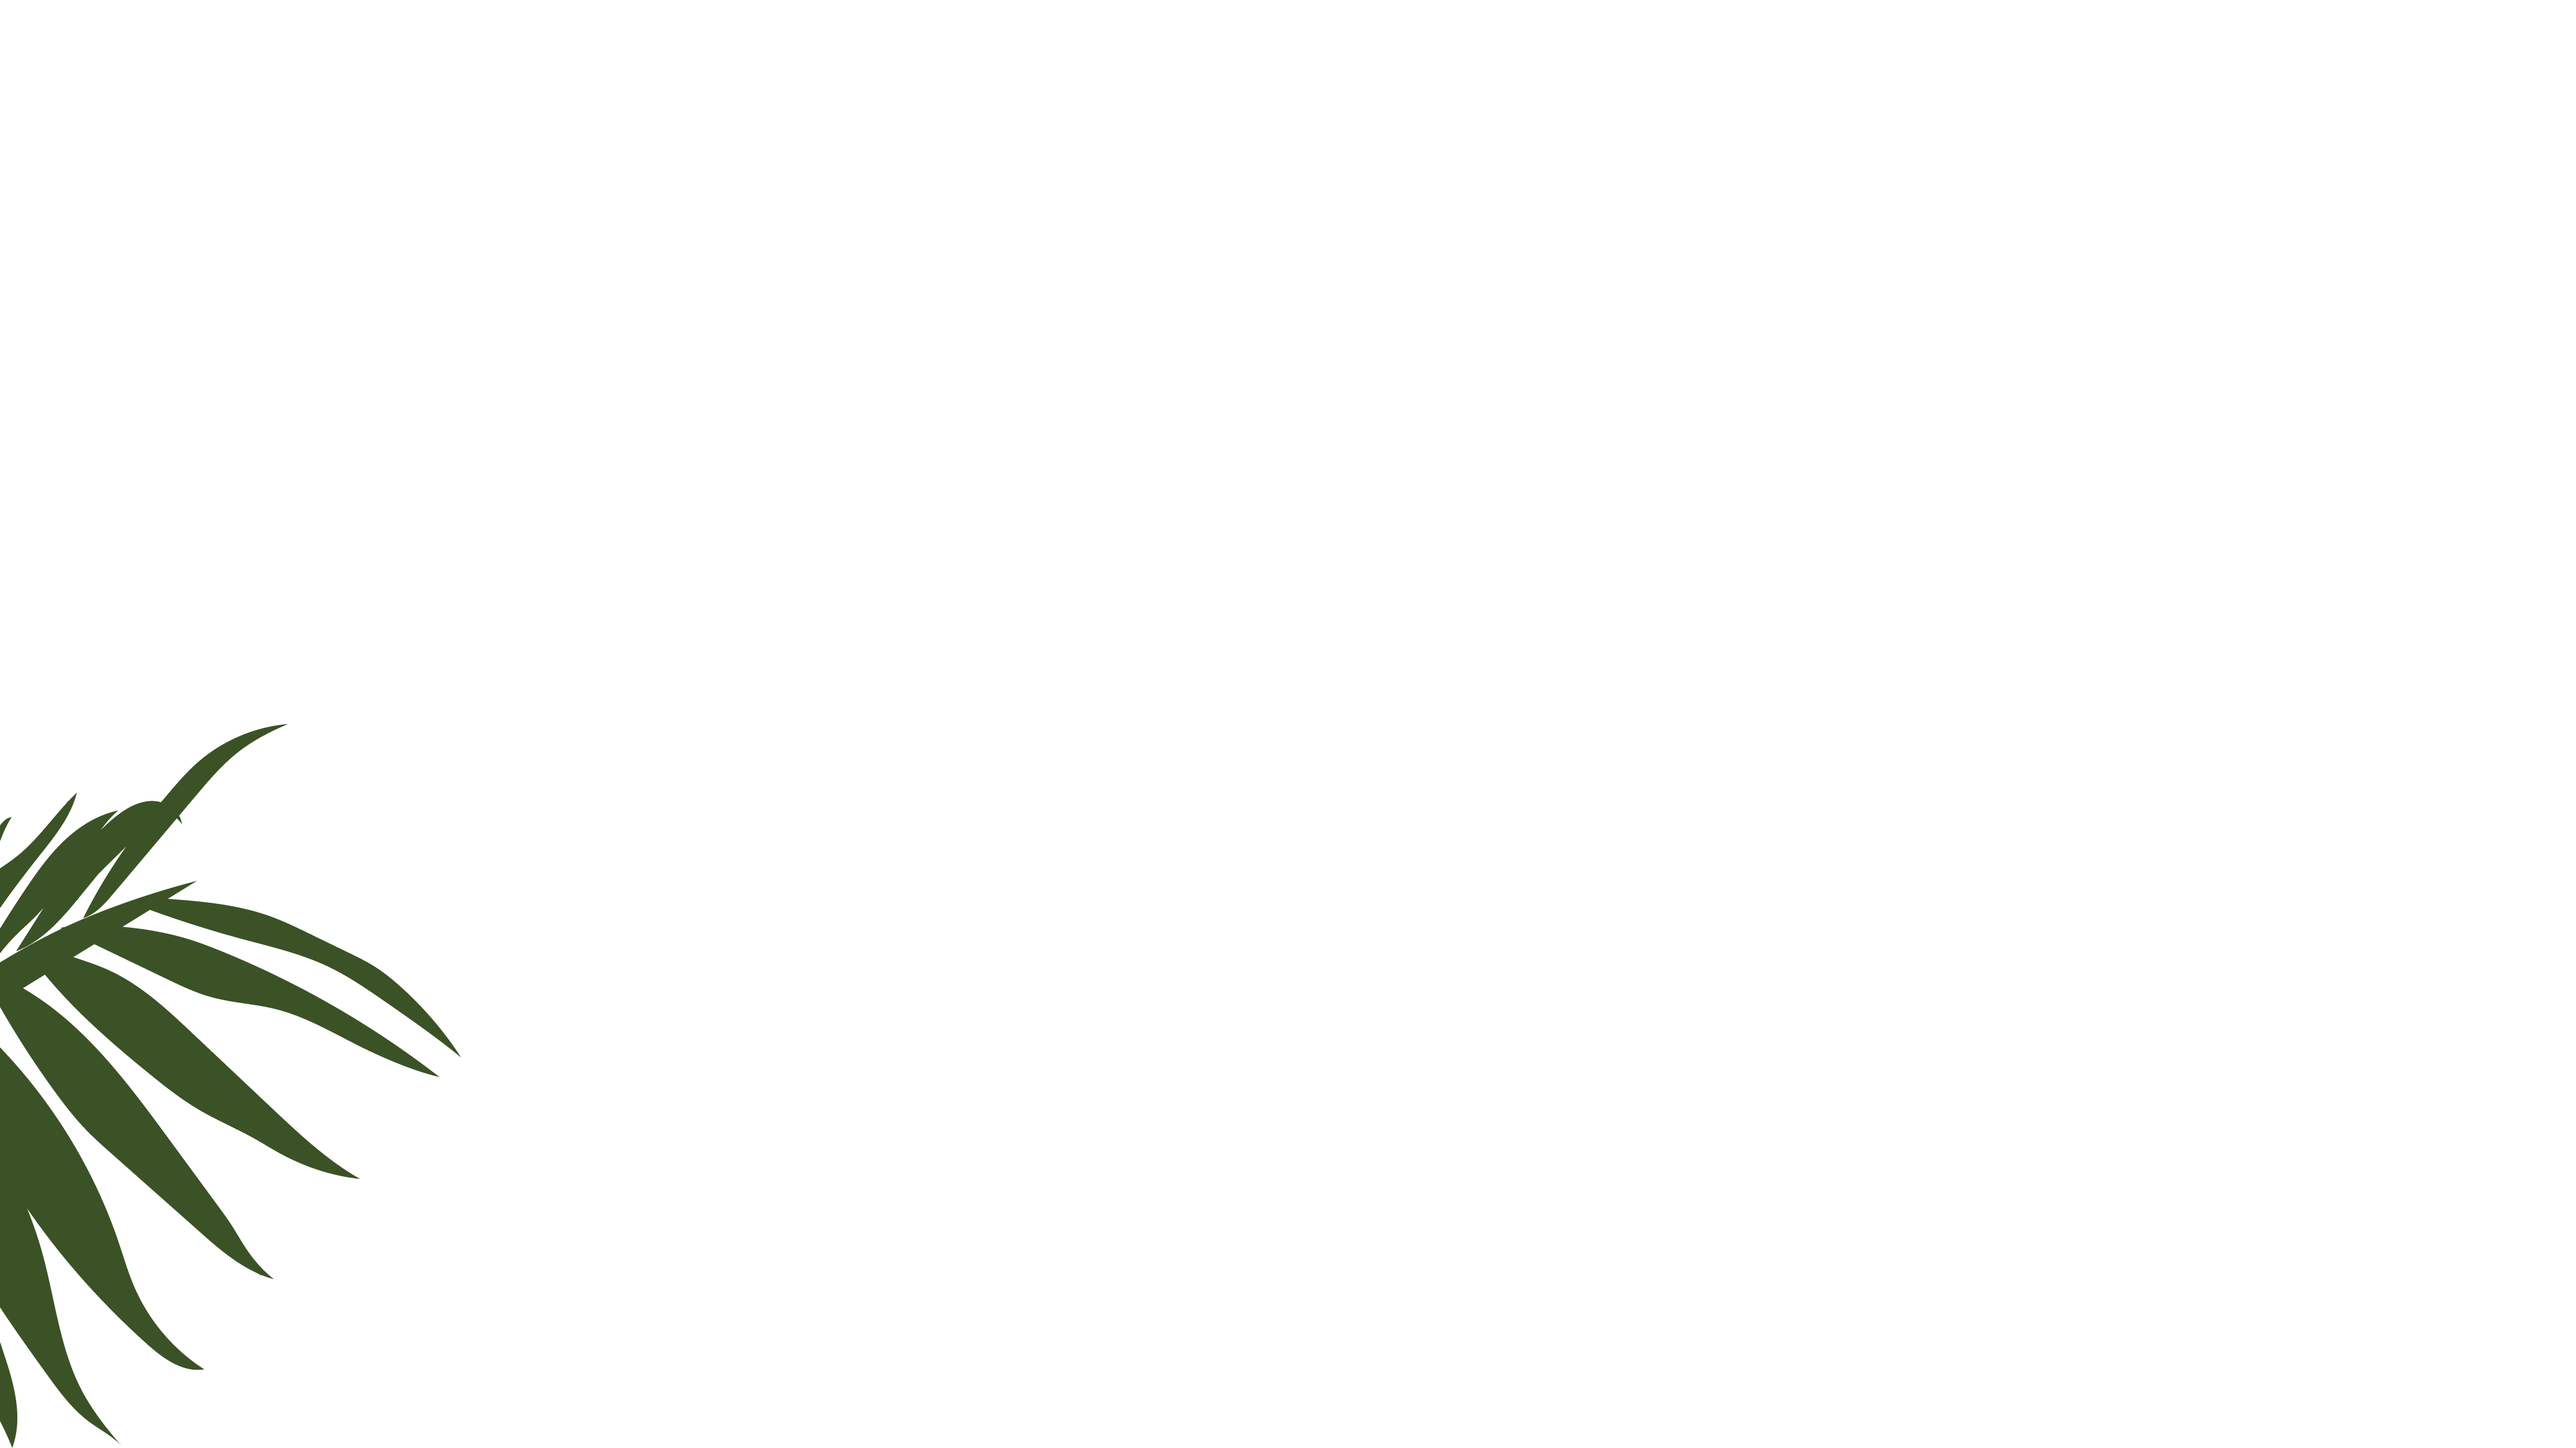
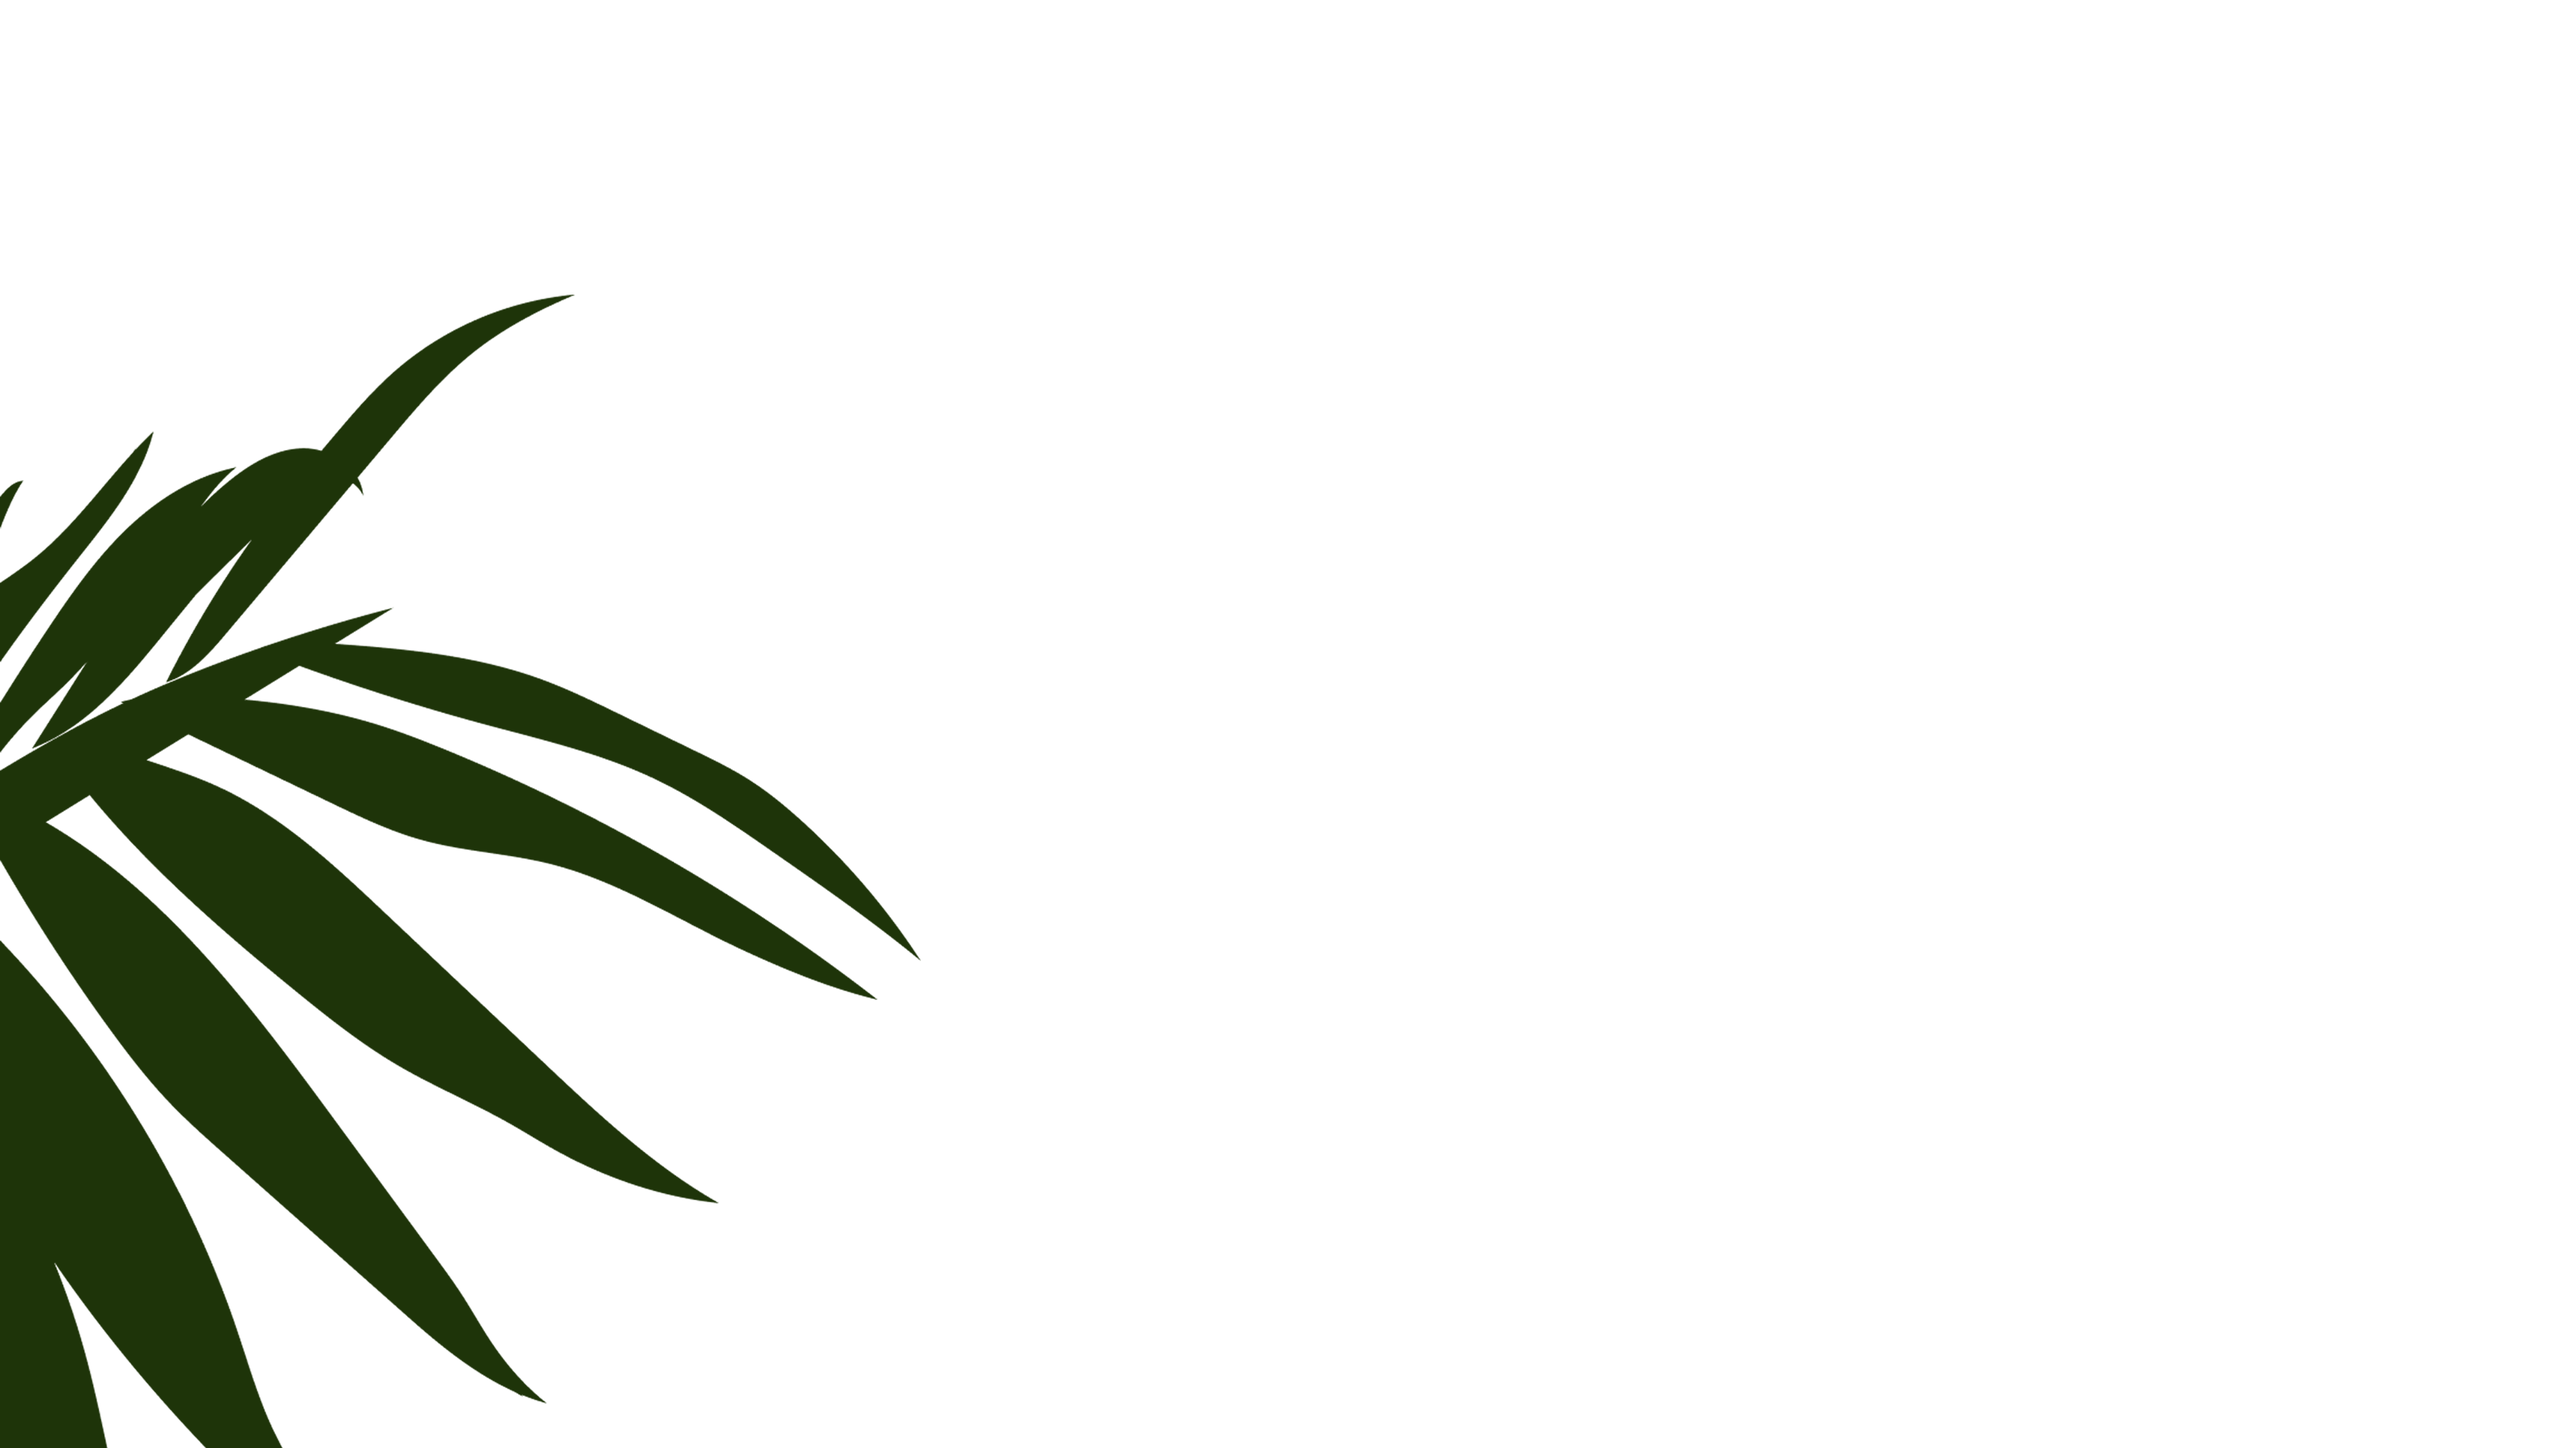
leaf change

Changed region(s): [[0.0, 0.1869, 0.3737, 1.0], [0.2491, 0.81, 0.2803, 0.8412], [0.1869, 0.9346, 0.218, 0.9658]]

diff --git a/index.html b/index.html
@@ -4,7 +4,7 @@
 <head>
    <meta charset="UTF-8">
    <meta name="viewport" content="width=device-width, initial-scale=1.0">
-   <title>Parallax Website</title>
+   <title>Pachamme Tottoli</title>
    <link rel="stylesheet" href="style.css">
 </head>
 
@@ -15,7 +15,7 @@
          height="200" style="shape-rendering: auto; display: block;">
          <g transform="rotate(0 50 50)">
             <animateTransform attributeName="transform" type="rotate" from="0 50 50" to="360 50 50" dur="4s"
-               repeatCount="indefinite"></animateTransform>
+               repeatCount="indefinite" begin="0s"></animateTransform> <!-- Added 'begin="0s"' -->
             <g transform="matrix(1,0,0,1,0,0)">
                <g transform="rotate(0 50 50)">
                   <path fill="rgb(0, 131, 0)"
@@ -79,6 +79,8 @@
          <img src="assets/bush1.png" id="local" class="bush1">
          <img src="assets/leaf2.png" id="local" class="leaf2">
          <img src="assets/leaf1.png" id="local" class="leaf1">
+         <img src="assets/leaf2g.png" id="local" class="leafg2">
+         <img src="assets/leaf1g.png" id="local" class="leafg1">
       </section>
       <!--------------------------------------------------------- About ---------------------------------------------------->
       <section class="about" id="about">

diff --git a/script.js b/script.js
@@ -1,10 +1,15 @@
 //Loader
+window.addEventListener('DOMContentLoaded', function () {
+    document.body.classList.add('loading');
+});
+
 window.addEventListener('load', function () {
     document.body.classList.remove('loading');
 });
-
 //Parallax
 const title = document.querySelector('.title')
+const leafg1 = document.querySelector('.leafg1')
+const leafg2 = document.querySelector('.leafg2')
 const leaf1 = document.querySelector('.leaf1')
 const leaf2 = document.querySelector('.leaf2')
 const bush2 = document.querySelector('.bush2')
@@ -13,6 +18,8 @@ document.addEventListener('scroll', function () {
     let value = window.scrollY
     title.style.marginTop = value * 1.1 + 'px'
 
+    leafg1.style.marginLeft = -value + 'px'
+    leafg2.style.marginLeft = value + 'px'
     leaf1.style.marginLeft = -value + 'px'
     leaf2.style.marginLeft = value + 'px'
 

diff --git a/style.css b/style.css
@@ -464,12 +464,16 @@ body:not(.loading) #loader svg {
   }
 }
 
-.leaf1 {
+.leafg1 , .leaf1 {
   animation: moveInFromLeft 2s ease-out forwards;
 }
 
-.leaf2 {
+.leafg2 , .leaf2 {
   animation: moveInFromRight 2s ease-out forwards;
+}
+
+.leaf1 , .leaf2 {
+  display: none;
 }
 
 @keyframes moveInFromLeft {
@@ -530,6 +534,12 @@ body:not(.loading) #loader svg {
   .leaf1,
   .leaf2 {
     margin-bottom: 300px;
+    display: block;
+  }
+
+  .leafg1,
+  .leafg2 {
+    display: none;
   }
 
   .about {
